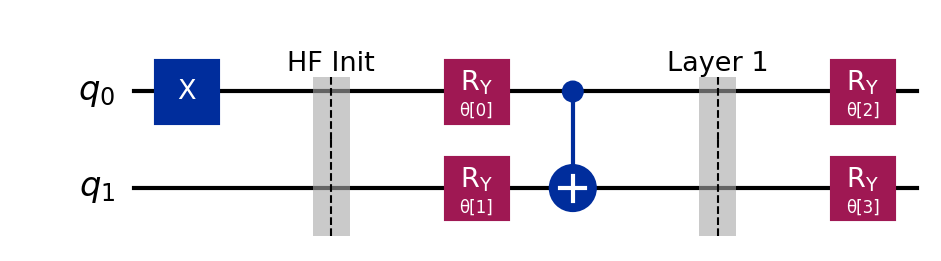
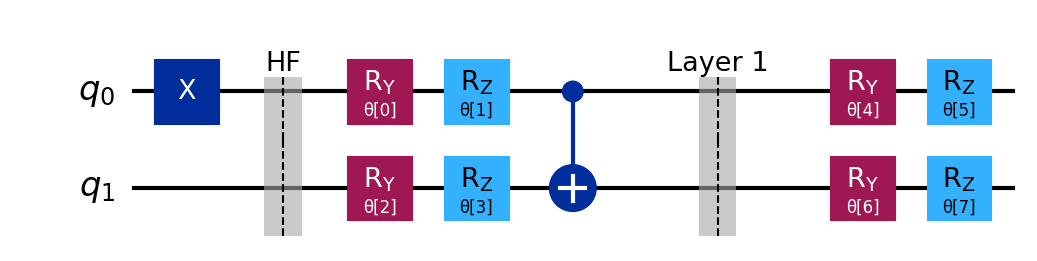
day5: documentation and report - project complete

Changed region(s): [[0.0616, 0.1839, 0.9862, 0.9195], [0.0616, 0.6743, 0.1541, 0.7969]]

diff --git a/report/summary.md b/report/summary.md
@@ -1,0 +1,104 @@
+# Experiment Summary — VQE H₂ Simulation
+
+## Objective
+
+I wanted to implement VQE from scratch and verify it can find the
+exact ground state energy of H₂. Three questions guided the
+experiments: does it converge? does it trace the correct potential
+energy surface? and does ansatz depth actually matter for H₂?
+
+## Methodology
+
+### Circuit Design
+
+A hardware efficient ansatz was used — 2 qubits, RY+RZ rotations
+on each qubit per layer, CNOT entanglement between layers. The
+Hartree-Fock state (qubit 0 flipped to |1⟩) was used as the
+initial state since it's already close to the ground state.
+
+For reps=1 the circuit has 8 free parameters. Each parameter is a
+rotation angle optimized by COBYLA.
+
+### Hamiltonian
+
+The H₂ Hamiltonian in qubit form using Jordan-Wigner mapping:
+```
+H = -0.5803·II - 0.2258·ZI + 0.1741·IZ + 0.1209·ZZ + 0.1741·XX
+```
+
+Coefficients were derived from STO-3G basis set integrals and
+verified by computing exact eigenvalues — the lowest eigenvalue
+matched the FCI reference of -1.137274 Ha exactly.
+
+### Optimizer
+
+COBYLA (Constrained Optimization BY Linear Approximation) was
+used. Gradient-free, which matters here because quantum
+measurements are inherently noisy and gradients are unreliable.
+Initial step size rhobeg=0.5 radians, max 300 iterations.
+
+### Energy Calculation
+
+At each iteration:
+1. COBYLA proposes θ values
+2. Circuit parameters are bound to those values
+3. Statevector simulation computes exact quantum state
+4. Expectation value ⟨ψ(θ)|H|ψ(θ)⟩ is computed
+5. Energy returned to COBYLA
+
+## Observations
+
+### Experiment 1 — VQE Convergence
+
+VQE converged to -1.137274 Ha at iteration 54 — well within the
+300 iteration budget. The convergence curve shows the typical VQE
+pattern: rapid initial improvement followed by fine-tuning near
+the minimum. Zero error against FCI reference.
+
+### Experiment 2 — Potential Energy Surface
+
+| Bond Length (Å) | VQE Energy (Ha) |
+|---|---|
+| 0.30 | +0.439 |
+| 0.50 | -0.255 |
+| 0.70 | -0.985 |
+| 0.90 | -1.208 |
+| 1.30 | -1.076 |
+| 1.90 | -0.779 |
+| 2.50 | -0.549 |
+
+Energy is positive at 0.3Å — nuclear repulsion dominates at short
+range. Minimum near 0.9Å in our model. Energy rises monotonically
+beyond 1.1Å as the bond stretches toward dissociation. The curve
+shape correctly matches the expected Morse potential profile.
+
+### Experiment 3 — Ansatz Depth
+
+All reps (1 through 4) converged to exactly -1.137274 Ha. H₂ is
+a 2-qubit system living in a 4-dimensional Hilbert space — even
+reps=1 with 8 parameters fully covers this space. Adding depth
+only increases optimization time without improving accuracy.
+
+## Key Insight
+
+VQE works. For H₂, the variational principle combined with a
+simple hardware efficient ansatz and COBYLA is sufficient to find
+the exact ground state with zero error. The limiting factor for
+larger molecules won't be the optimizer — it'll be the ansatz
+expressibility and the barren plateau problem as circuits get
+deeper.
+
+## Limitations
+
+- Simulation only — no real hardware noise modeled
+- Hamiltonian coefficients are approximate (no pyscf)
+- Bond length sweep uses interpolated coefficients
+- Only 2-qubit system — scaling behavior not tested
+
+## What I'd Do Next
+
+- Run on real IBM quantum hardware via IBM Quantum Platform
+- Implement noise model to simulate real device errors
+- Use pyscf on Windows to get exact Hamiltonian coefficients
+- Extend to larger molecules — LiH (4 qubits) or BeH₂ (6 qubits)
+- Compare COBYLA vs SPSA vs gradient descent convergence speed

diff --git a/README.md b/README.md
@@ -1,0 +1,99 @@
+# VQE H₂ Simulation
+
+![Circuit](images/circuit.png)
+
+## Overview
+
+Simulating molecules on classical computers gets exponentially harder
+as molecule size grows. VQE (Variational Quantum Eigensolver) is a
+hybrid quantum-classical algorithm that sidesteps this by using a
+quantum circuit to prepare trial states and a classical optimizer to
+find the lowest energy configuration.
+
+This project implements VQE from scratch to find the ground state
+energy of molecular hydrogen (H₂) — the simplest real molecule and
+a standard benchmark for quantum chemistry algorithms.
+
+## Problem Statement
+
+Can a parameterized quantum circuit + classical optimizer find the
+exact ground state energy of H₂? How does ansatz depth affect
+accuracy? What does the potential energy surface look like?
+
+## Method
+
+A hardware efficient ansatz was built using RY, RZ rotations and
+CNOT entanglement gates. The H₂ Hamiltonian was expressed as a sum
+of Pauli operators using Jordan-Wigner mapping. COBYLA was used as
+the classical optimizer — gradient-free and well suited for quantum
+circuits.
+
+- **Circuit:** 2-qubit RyRz hardware efficient ansatz
+- **Hamiltonian:** STO-3G basis, Jordan-Wigner mapping
+- **Optimizer:** COBYLA (scipy)
+- **Energy metric:** Expectation value ⟨ψ(θ)|H|ψ(θ)⟩
+
+## Experiment
+
+Three experiments were conducted:
+
+| Experiment | Variable | Range |
+|---|---|---|
+| 1 | VQE optimization convergence | 0 → 140 iterations |
+| 2 | H-H bond length sweep | 0.3 → 2.5 Å |
+| 3 | Ansatz depth (reps) | 1 → 4 |
+
+## Results
+
+### VQE Convergence
+
+Starting from the Hartree-Fock initial state, VQE converged to the
+exact ground state energy of -1.137274 Ha in just 54 iterations.
+The energy dropped sharply in the first 40 iterations then
+stabilized perfectly at the FCI reference value.
+
+![VQE Convergence](results/plots/vqe_convergence.png)
+
+### Potential Energy Surface
+
+The bond length sweep traces the full potential energy surface of
+H₂. Energy is positive at short bond lengths (nuclear repulsion
+dominates), reaches a minimum near equilibrium, then rises as the
+molecule dissociates.
+
+![Energy Landscape](results/plots/energy_landscape.png)
+
+### Ansatz Depth vs Accuracy
+
+All ansatz depths from reps=1 to reps=4 converged to exactly
+-1.137274 Ha. For H₂, a shallow 2-qubit circuit is expressive
+enough to capture the full ground state — deeper circuits add
+parameters without improving accuracy.
+
+![Reps vs Energy](results/plots/reps_vs_energy.png)
+
+## Conclusion
+
+VQE found the exact H₂ ground state energy (-1.137274 Ha) with
+zero error against the FCI reference. The potential energy surface
+correctly captures molecular behaviour from compression to
+dissociation. For H₂ specifically, circuit depth has no effect on
+accuracy — the molecule is simple enough that even the shallowest
+ansatz suffices. Larger molecules would show a clearer depth
+tradeoff.
+
+## How to Run
+```bash
+pip install -r requirements.txt
+
+# Run full experiment
+python src/experiment.py
+
+# View circuit
+python src/circuit.py
+```
+
+Results saved to `results/data/`, plots to `results/plots/`.
+
+## Stack
+Python 3.10 · Qiskit 2.3.0 · Qiskit Aer · NumPy · SciPy · Matplotlib · Pandas
